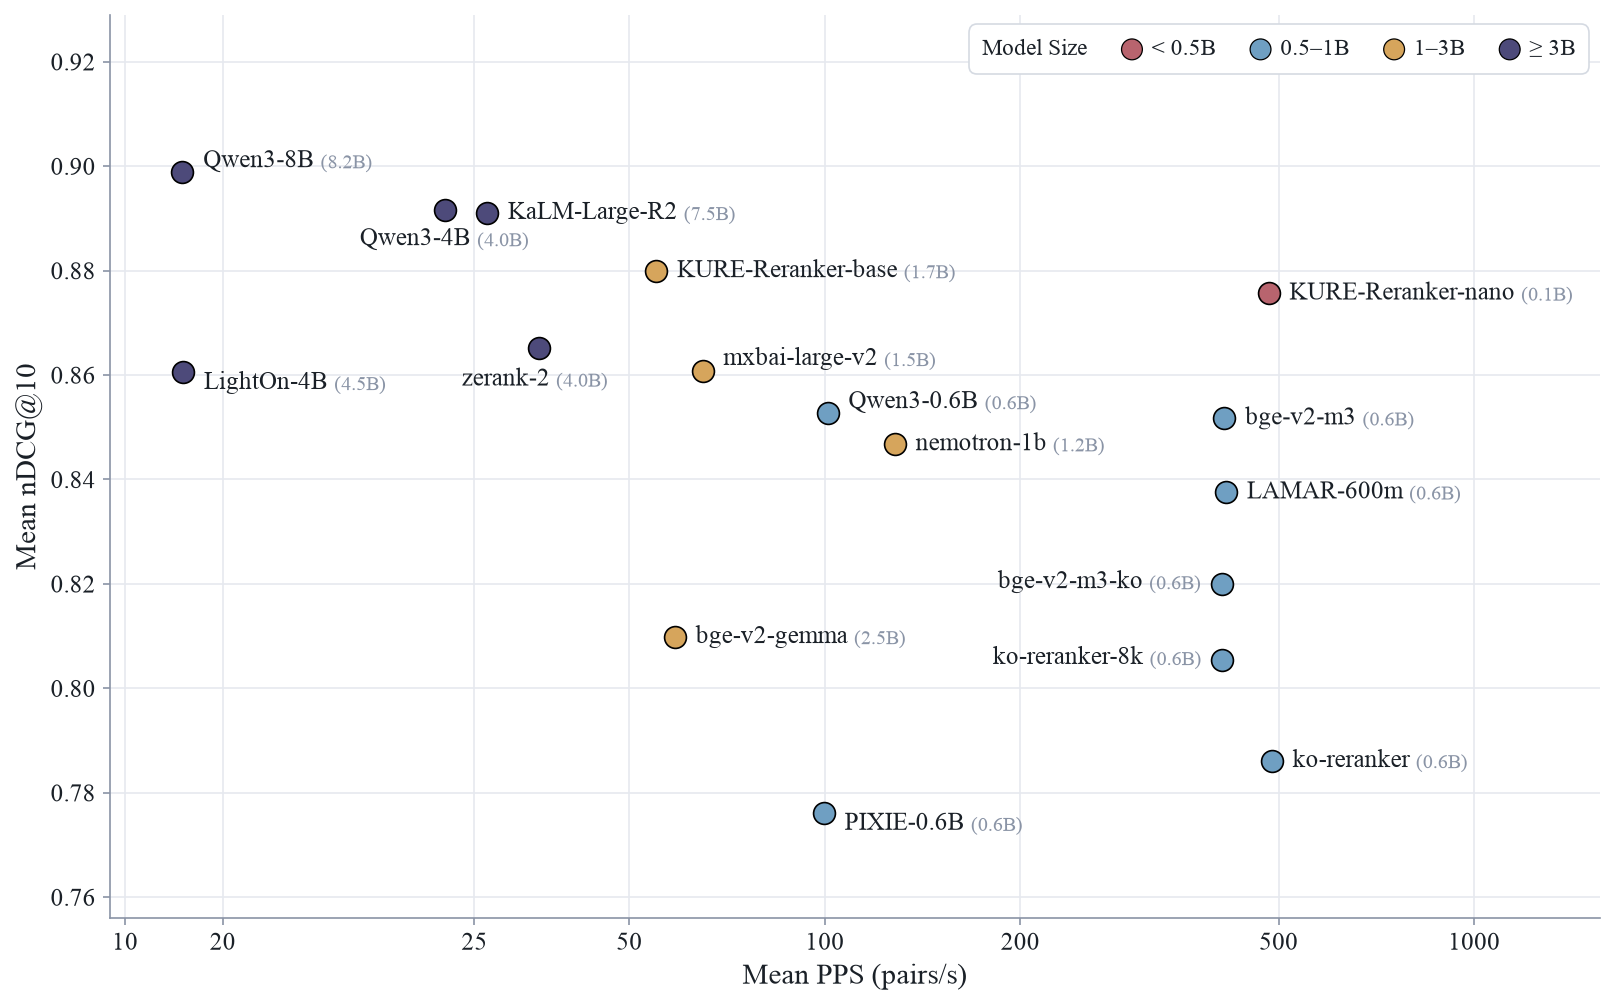
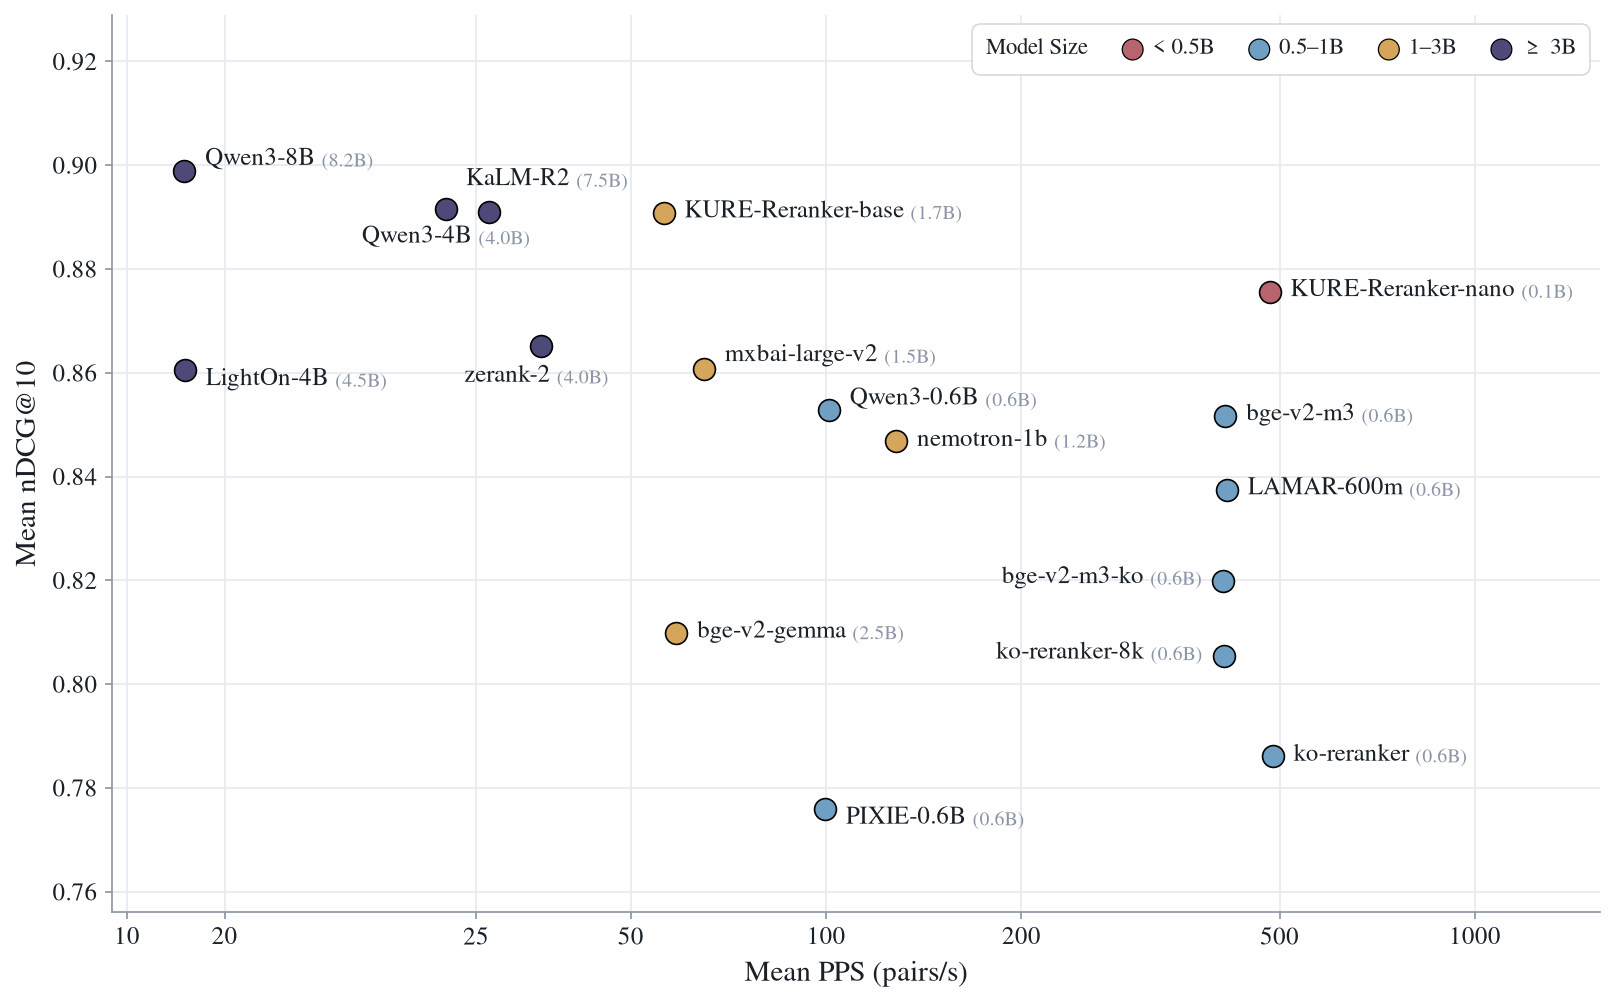
fix: update KURE-Reranker-base evaluation results and update docs, figures

diff --git a/eval/plot_pps_vs_ndcg.py b/eval/plot_pps_vs_ndcg.py
@@ -41,7 +41,7 @@ SHORT = {
     "Qwen/Qwen3-Reranker-8B": "Qwen3-8B",
     "Qwen/Qwen3-Reranker-4B": "Qwen3-4B",
     "Qwen/Qwen3-Reranker-0.6B": "Qwen3-0.6B",
-    "KaLM-Embedding/KaLM-Reranker-V1-Large-R2": "KaLM-Large-R2",
+    "KaLM-Embedding/KaLM-Reranker-V1-Large-R2": "KaLM-R2",
     "zeroentropy/zerank-2-reranker": "zerank-2",
     "lightonai/LightOn-rerank-PW-4B": "LightOn-4B",
     "mixedbread-ai/mxbai-rerank-large-v2": "mxbai-large-v2",
@@ -62,7 +62,7 @@ SHORT = {
 OFFSET = {
     "zerank-2": (-16, -15, "center"),  # 점 바로 아래
     "Qwen3-8B": (10, 5),
-    "KaLM-Large-R2": (10, 0),
+    "KaLM-R2": (14, 15, "center"),  # 점 위 조금 오른쪽 (오른쪽은 KURE-Reranker-base 라벨)
     "Qwen3-4B": (-14, -14, "center"),  # 점 바로 아래
     "mxbai-large-v2": (10, 6),
     "LightOn-4B": (10, -5),

diff --git a/README.md b/README.md
@@ -67,7 +67,7 @@ uv run streamlit run leaderboard_reranker.py
 | [Qwen/Qwen3-Reranker-8B](https://huggingface.co/Qwen/Qwen3-Reranker-8B) | 8.2B | 0.8990 | 15.0 |
 | [Qwen/Qwen3-Reranker-4B](https://huggingface.co/Qwen/Qwen3-Reranker-4B) | 4.0B | 0.8916 | 24.3 |
 | [KaLM-Embedding/KaLM-Reranker-V1-Large-R2](https://huggingface.co/KaLM-Embedding/KaLM-Reranker-V1-Large-R2) | 7.5B | 0.8910 | 25.3 |
-| [nlpai-lab/KURE-Reranker-base](https://huggingface.co/nlpai-lab/KURE-Reranker-base) | 1.7B | 0.8800 | 55.0 |
+| [nlpai-lab/KURE-Reranker-base](https://huggingface.co/nlpai-lab/KURE-Reranker-base) | 1.7B | 0.8908 | 56.2 |
 | [nlpai-lab/KURE-Reranker-nano](https://huggingface.co/nlpai-lab/KURE-Reranker-nano) | 149M | 0.8757 | 482.4 |
 | [zeroentropy/zerank-2-reranker](https://huggingface.co/zeroentropy/zerank-2-reranker) | 4.0B | 0.8652 | 29.3 |
 | [mixedbread-ai/mxbai-rerank-large-v2](https://huggingface.co/mixedbread-ai/mxbai-rerank-large-v2) | 1.5B | 0.8607 | 64.8 |
@@ -94,7 +94,7 @@ uv run streamlit run leaderboard_reranker.py
 | Qwen/Qwen3-Reranker-8B | 8.2B | 0.8720 | 0.9653 | 0.8654 | 0.9785 | 0.8513 | 0.8416 | 0.8255 | 0.9897 | 0.9013 |
 | Qwen/Qwen3-Reranker-4B | 4.0B | 0.8733 | 0.9630 | 0.8442 | 0.9794 | 0.8559 | 0.8298 | 0.8161 | 0.9861 | 0.8766 |
 | KaLM-Embedding/KaLM-Reranker-V1-Large-R2 | 7.5B | 0.8796 | 0.9415 | 0.8633 | 0.9809 | 0.8382 | 0.8500 | 0.7970 | 0.9863 | 0.8824 |
-| nlpai-lab/KURE-Reranker-base | 1.7B | 0.8548 | 0.9762 | 0.8381 | 0.9767 | 0.8371 | 0.7970 | 0.8163 | 0.9891 | 0.8343 |
+| nlpai-lab/KURE-Reranker-base | 1.7B | 0.8605 | 0.9870 | 0.8331 | 0.9757 | 0.8496 | 0.8252 | 0.8189 | 0.9907 | 0.8768 |
 | nlpai-lab/KURE-Reranker-nano | 149M | 0.8582 | 0.9741 | 0.8078 | 0.9768 | 0.8400 | 0.8011 | 0.7966 | 0.9895 | 0.8368 |
 | jinaai/jina-reranker-v3.5 | 597M | 0.8539 | 0.9838 | 0.8337 | 0.9659 | 0.8565 | 0.8194 | — | 0.9887 | 0.8545 |
 | jinaai/jina-reranker-v3 | 597M | 0.8553 | 0.9773 | 0.7762 | 0.9606 | 0.8449 | 0.8104 | — | 0.9859 | 0.8546 |
@@ -121,7 +121,7 @@ uv run streamlit run leaderboard_reranker.py
 | Qwen/Qwen3-Reranker-8B | 8.2B | 16.5 | 7.4 | 15.3 | 20.5 | 25.0 | 26.6 | 0.7 | 10.8 | 12.4 |
 | Qwen/Qwen3-Reranker-4B | 4.0B | 26.2 | 11.8 | 25.6 | 34.5 | 40.1 | 42.8 | 1.1 | 17.1 | 19.9 |
 | KaLM-Embedding/KaLM-Reranker-V1-Large-R2 | 7.5B | 28.6 | 12.4 | 25.4 | 36.9 | 39.6 | 43.8 | 0.8 | 18.7 | 21.4 |
-| nlpai-lab/KURE-Reranker-base | 1.7B | 59.2 | 27.3 | 58.0 | 77.0 | 89.1 | 97.1 | 2.6 | 39.1 | 45.7 |
+| nlpai-lab/KURE-Reranker-base | 1.7B | 60.9 | 27.9 | 58.5 | 77.9 | 91.7 | 99.7 | 2.5 | 39.9 | 46.2 |
 | nlpai-lab/KURE-Reranker-nano | 149M | 475.4 | 233.2 | 529.0 | 750.0 | 765.8 | 855.2 | 16.5 | 330.8 | 386.0 |
 | jinaai/jina-reranker-v3.5 | 597M | 141.0 | 38.6 | 123.2 | 197.5 | 277.3 | 295.7 | — | 68.4 | 86.7 |
 | jinaai/jina-reranker-v3 | 597M | 113.8 | 25.0 | 95.7 | 166.3 | 244.6 | 261.6 | — | 48.7 | 64.0 |
